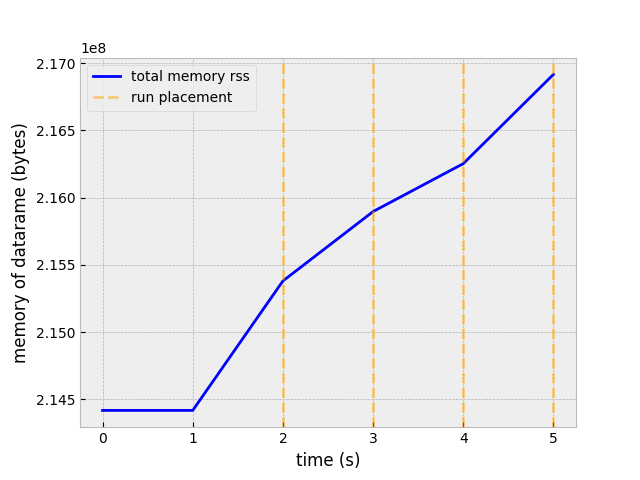
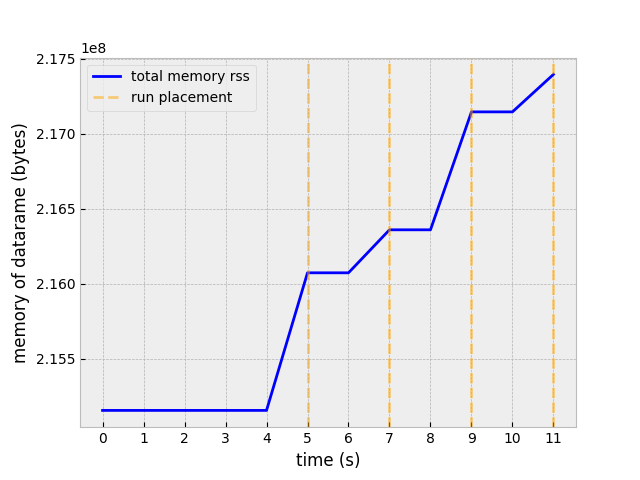
remove producer from hots/ change node within hots

diff --git a/src/hots/main.py b/src/hots/main.py
@@ -425,9 +425,9 @@ def streaming_eval(my_instance: inst.Instance, df_indiv_clust: pd.DataFrame,
     # send node meta stats for mock 
     
     
-    time_to_send = my_instance.df_indiv['timestamp'].iloc[-1]
-    history = True # consider historical data
-    kafka.produce_data(my_instance, time_to_send, history) # send last historical data to kafka
+    # time_to_send = my_instance.df_indiv['timestamp'].iloc[-1]
+    # history = True # consider historical data
+    # kafka.produce_data(my_instance, time_to_send, history) # send last historical data to kafka
     
     # build initial optimisation model in pre loop using all or potion of historical data.
     start = time.time()
@@ -461,6 +461,7 @@ def streaming_eval(my_instance: inst.Instance, df_indiv_clust: pd.DataFrame,
         it.memory_usage.append(mem_before)
         it.total_mem_use.append(tot_mem_after)
     it.Sentry = True
+    print("df_indiv: ",my_instance.df_indiv)
     try:
         while it.Sentry:
             print('Ready for new data...')
@@ -488,24 +489,32 @@ def streaming_eval(my_instance: inst.Instance, df_indiv_clust: pd.DataFrame,
                 if dval:
                     key = list(dval.keys())[0]
                     value = list(dval.values())[0]
-                    c_info = []
-                    for c in value['containers']:
-                            js = {'timestamp': key , 'container_id': c['container_id'], 'machine_id': c['machine_id'], 'cpu' : c['cpu']}
-                            c_info.append(js)
-                    new_df_container = pd.DataFrame(c_info)
-                    new_df_container = new_df_container.astype({
-                                it.indiv_field: str,
-                                it.host_field: str,
-                                it.tick_field: int})
-                    new_df_container.sort_values(it.tick_field, inplace=True)
-                    new_df_container.set_index([it.tick_field, it.indiv_field], inplace=True, drop=False)
-                    if history:
-                        history = False
-                        time_to_send += 1
-                        print("time_to_send",time_to_send)
-                        kafka.produce_data(my_instance, time_to_send, history)
-                        continue
-                    
+                    last_index = my_instance.df_indiv.index.levels[0][-1]
+                    print("last_index: ",last_index)
+                    subset = my_instance.df_indiv[my_instance.df_indiv.timestamp == last_index].copy()
+                    subset.reset_index(drop=True, inplace=True)
+                    subset.loc[:, 'timestamp'] = int(key)
+                    subset.set_index([it.tick_field, it.indiv_field], inplace=True, drop=False)
+                    subset.sort_index(inplace=True)
+
+                    # subset = my_instance.df_indiv.loc[(last_index,slice(None)), :].copy()
+                    # subset = my_instance.df_indiv[my_instance.df_indiv.timestamp == (int(key) - 1)].copy()
+                    # print("subset: ",subset)
+                    # subset = subset.rename(index={last_index:int(key)}, level='timestamp')
+                    # subset.sort_index(inplace=True)
+                    # subset.reset_index(drop=True, inplace=True)
+                    # subset.loc[:, 'timestamp'] = int(key)
+                    # subset.set_index([it.tick_field, it.indiv_field], inplace=True, drop=False)
+                    # del subset['machine_id']
+                    print("subset: ",subset)
+                    new_df_container = reassign_node(value)
+                    # subset = pd.merge(new_df_container, subset, on='container_id', how='left')
+                    print("merged_subset: ",subset)
+                    print("new_df_container: ",new_df_container)
+                    # new_df_container[['machine_id']] = subset[['machine_id']]
+                    new_df_container['machine_id'] = subset['machine_id'].where(new_df_container['container_id'] == subset['container_id'])
+                    subset = subset.truncate(before=-1, after=-1)
+                    print("new_df_container: ",new_df_container)
                     logging.info('\n # Enter loop number %d #\n' % loop_nb)
                     it.results_file.write('\n # Loop number %d #\n' % loop_nb)
                     it.optim_file.write('\n # Enter loop number %d #\n' % loop_nb)
@@ -672,9 +681,9 @@ def streaming_eval(my_instance: inst.Instance, df_indiv_clust: pd.DataFrame,
                         analysis_duration = analysis_duration + 1
                     # change indentation -> on further fixes muffu
                     # input('\nPress any key to progress in time ...\n')
-                    time_to_send += 1
-                    print("time_to_send",time_to_send)
-                    kafka.produce_data(my_instance, time_to_send, history)
+                    # time_to_send += 1
+                    # print("time_to_send",time_to_send)
+                    # kafka.produce_data(my_instance, time_to_send, history)
                     
                     # tmax += tick
                     # tmin = tmax - (my_instance.window_duration - 1)
@@ -717,7 +726,7 @@ def streaming_eval(my_instance: inst.Instance, df_indiv_clust: pd.DataFrame,
         plot.update_nodes_plot(fig_node, ax_node,
                                working_df_indiv, my_instance.dict_id_n)
 
-    
+    # my_instance.df_indiv.to_csv('df_indiv.csv', index=False)
     df_host_evo = end_loop(working_df_indiv, tmin, nb_clust_changes, nb_place_changes,
                            total_nb_overload, total_loop_time, loop_nb, df_host_evo)
     
@@ -747,7 +756,7 @@ def progress_time_noloop(
     
     
     host_overload = node.check_capacities(df_host_tick, instance.df_host_meta)
-    print('TICK INFO',df_host_tick)
+
     df_host_evo = pd.concat([
         df_host_evo, df_host_tick
     ])
@@ -1231,6 +1240,19 @@ def process_memory():
     process = psutil.Process(os.getpid())
     mem_info = process.memory_info()
     return mem_info.rss
+
+
+def reassign_node(value):
+    c_info = value['containers']
+    new_df_container = pd.DataFrame(c_info)
+    new_df_container = new_df_container.astype({
+                it.indiv_field: str,
+                it.host_field: str,
+                it.tick_field: int})
+    new_df_container.sort_values(it.tick_field, inplace=True)
+    new_df_container.set_index([it.tick_field, it.indiv_field], inplace=True, drop=False)
+    new_df_container.sort_index(inplace=True)
+    return new_df_container
 
 
 if __name__ == '__main__':

diff --git a/src/hots/instance.py b/src/hots/instance.py
@@ -110,12 +110,12 @@ class Instance:
         self.sep_time = self.df_indiv[it.tick_field].min() + sep_nb_data - 1
         if config['loop']['tick'] == 'default':
             config['loop']['tick'] = self.window_duration - 1
-            config['loop']['tick'] = 1
+            config['loop']['tick'] = 2
         else:
             config['loop']['tick'] = math.floor(
                 self.time * int(config['loop']['tick']) / 100
             ) - 1
-
+        self.window_duration = 3
         if self.window_duration <= 1:
             self.window_duration += 1
         if self.sep_time <= 0:
